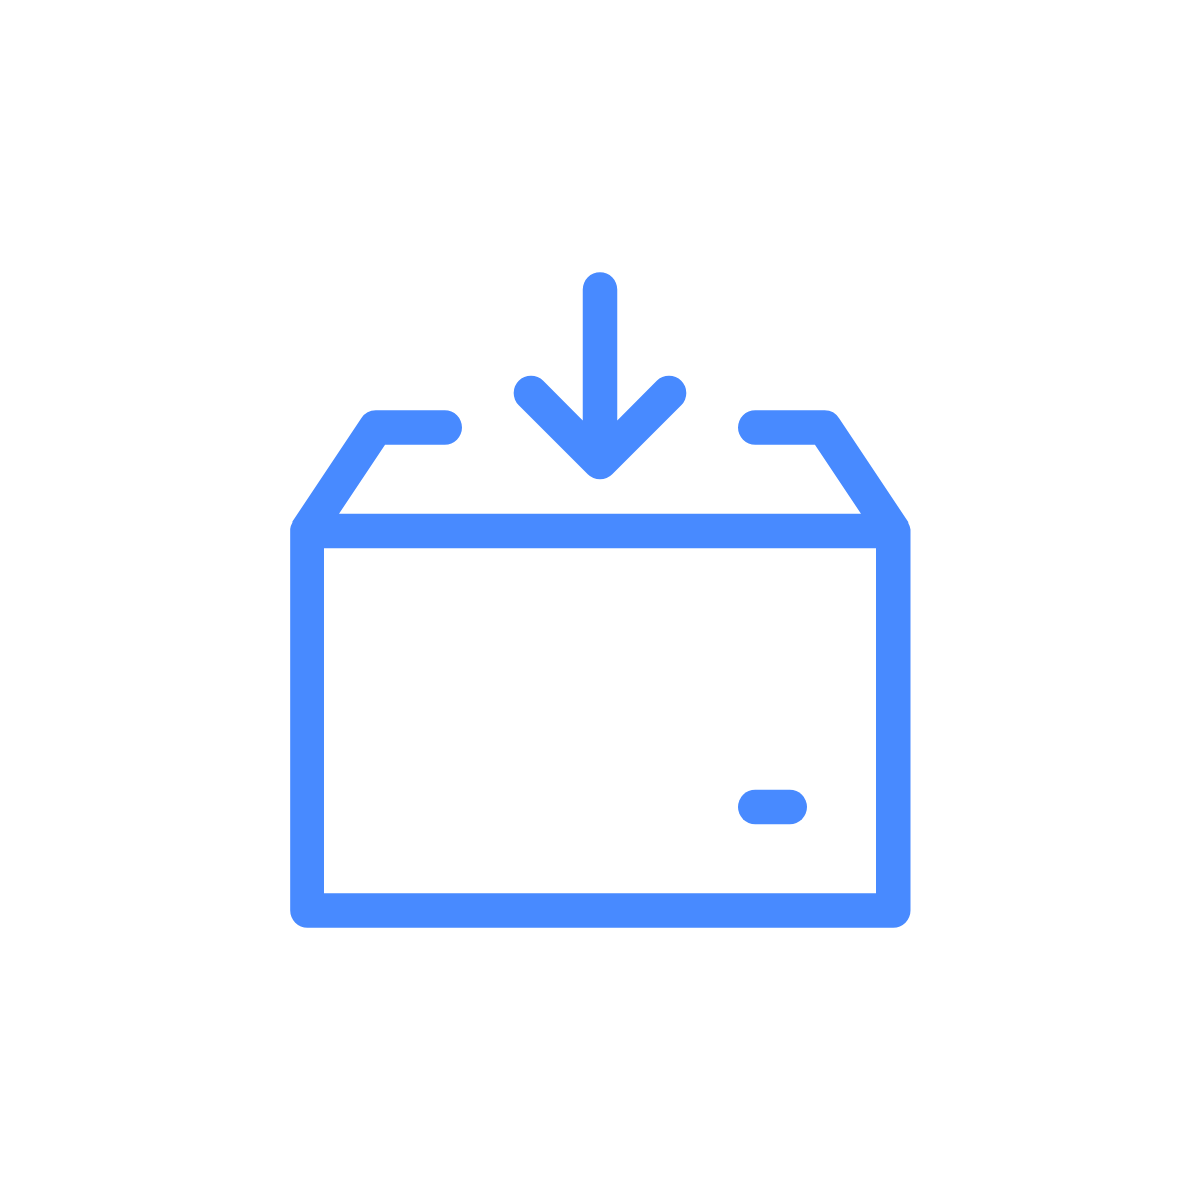
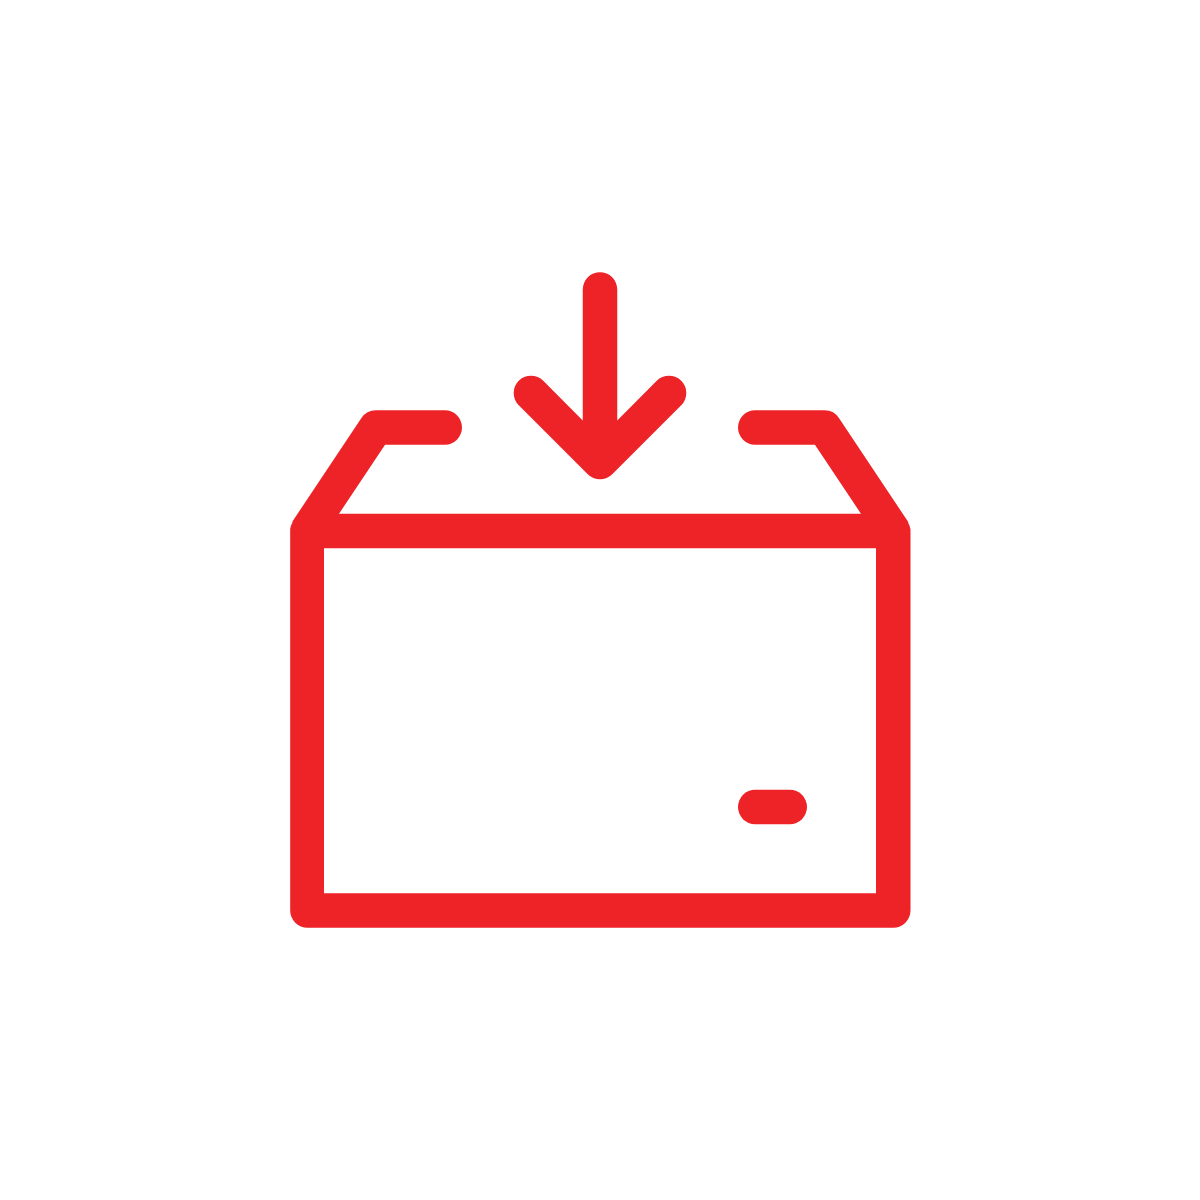
color Changed

Changed region(s): [[0.2158, 0.2158, 0.7708, 0.7708], [0.6167, 0.6475, 0.6783, 0.7092]]

diff --git a/src/pages/login/login.ts b/src/pages/login/login.ts
@@ -68,7 +68,7 @@ export class LoginPage {
         // alert(JSON.stringify(res));
         // alert('PutMaster Executed SQL');
       }).catch(e => {
-        alert('Error in line 35 = ' + JSON.stringify(e));
+        alert('Error in line 71 = ' + JSON.stringify(e));
         console.log(e);
       });
     }).catch(e => console.log(e));
@@ -81,7 +81,7 @@ export class LoginPage {
         // alert(JSON.stringify(res));
         // alert('PutMaster Executed SQL');
       }).catch(e => {
-        alert('Error in line 50 = ' + JSON.stringify(e));
+        alert('Error in line 84 = ' + JSON.stringify(e));
         console.log(e);
       });
     }).catch(e => console.log(e));
@@ -96,11 +96,11 @@ export class LoginPage {
     }).then((db: SQLiteObject) => {
       db.executeSql('INSERT INTO putMaster VALUES(?,?)', [i, "putNo00" + i])
         .then(res => {
-          alert('Sucess Insert = ' + JSON.stringify(res));
+          //alert('Sucess Insert = ' + JSON.stringify(res));
           console.log(res);
 
         }).catch(e => {
-          alert('Error in line 51 = ' + JSON.stringify(e));
+          alert('Error in line 103 = ' + JSON.stringify(e));
           //console.log(e);
         });
     }).
@@ -109,7 +109,31 @@ export class LoginPage {
         //alert(JSON.stringify(error));
         console.log(error);
       });
+      this.insertPutDetails(i,"00"+i,"itemName"+i,"BC1R"+i ,i);
     }
+  }
+
+
+  insertPutDetails(putID, itemCode, itemName, suggestedLocation, itemQty){
+    this.sqlite.create({
+      name: 'ionicdb.db',
+      location: 'default'
+    }).then((db: SQLiteObject) => {
+      db.executeSql('INSERT INTO putDetails VALUES(?,?,?,?,?)', [putID, itemCode, itemName, suggestedLocation, itemQty])
+        .then(res => {
+          //alert('Sucess Insert = ' + JSON.stringify(res));
+          console.log(res);
+
+        }).catch(e => {
+          alert('Error in line 51 = ' + JSON.stringify(e));
+          //console.log(e);
+        });
+    }).
+      catch(error => {
+        alert('Error in line 133 = ' + JSON.stringify(error));
+        //alert(JSON.stringify(error));
+        console.log(error);
+      });
   }
 
   toastMsgFn(msg: string) {

diff --git a/src/pages/home/home.ts b/src/pages/home/home.ts
@@ -21,53 +21,28 @@ export class HomePage {
 
   ionViewDidLoad() {
   }
-
   
+ 
 
-
-  // getData(){
-  //   this.sqlite.create({
-  //     name: 'ionicdb.db',
-  //     location: 'default'
-  //   }).then((db: SQLiteObject) => {
-  //     db.executeSql('SELECT COUNT(putID) AS putCount FROM putMaster', []).then(res => {
-  //       alert("Select = " + JSON.stringify(res));
-  //       this.dataCount = res.rows.item(0).count;
-  //       //alert(res.rows.item(0).count);
-  //     }).catch(e => console.log(e));
-  //   }).catch(e => console.log(e));
-  // }
-
-  // insertRecords(no){
-  //   //for (let i = 1; i <= 5; i++) {
-  //     this.sqlite.create({
-  //       name: 'ionicdb.db',
-  //       location: 'default'
-  //     }).then((db: SQLiteObject) => {
-  //       db.executeSql('INSERT INTO putMaster VALUES(?,?)', [no, "putNo00" + no])
-  //         .then(res => {
-  //           alert('Sucess Insert = ' + JSON.stringify(res));
-  //           console.log(res);
-
-  //         }).catch(e => {
-  //           alert('Error in line 51 = ' + JSON.stringify(e));
-  //           //console.log(e);
-  //         });
-  //     }).
-  //       catch(error => {
-  //         alert('Error in line 56 = ' + JSON.stringify(error));
-  //         //alert(JSON.stringify(error));
-  //         console.log(error);
-  //       });
-  //   //}
-  // }
-
-
-goToPustList(){
-  this.navCtrl.push('ListputPage');
-}
+  goToPustList(){
+    this.navCtrl.push('ListputPage');
+  }
 
   logOut(){
+
+    this.sqlite.create({
+      name: 'ionicdb.db',
+      location: 'default'
+    }).then((db: SQLiteObject) => {
+      db.executeSql('DELETE FROM putMaster', [])
+        .then(res => {
+          alert(JSON.stringify(res));
+          console.log(res);
+        })
+        .catch(e => console.log(e));
+    }).catch(e => console.log(e));
+  
+
     this.storage.clear().then(() => {
       console.log('all keys are cleared');
     });

diff --git a/src/pages/listput/listput.ts b/src/pages/listput/listput.ts
@@ -25,10 +25,17 @@ export class ListputPage {
       name: 'ionicdb.db',
       location: 'default'
     }).then((db: SQLiteObject) => {
-      db.executeSql('SELECT * FROM putMaster', []).then(res => {
+      db.executeSql('SELECT * FROM putMaster INNER JOIN putDetails ON putMaster.putID = putDetails.putID', []).then(res => {
         this.putJson = [];
         for (var i = 0; i < res.rows.length; i++) {
-          this.putJson.push({ putID: res.rows.item(i).putID, putNo: res.rows.item(i).putNo })
+          this.putJson.push({ 
+            putID: res.rows.item(i).putID,
+            putNo: res.rows.item(i).putNo,
+            itemCode: res.rows.item(i).itemCode,
+            itemName: res.rows.item(i).itemName,
+            suggestedLocation: res.rows.item(i).suggestedLocation,
+            itemQty: res.rows.item(i).itemQty,
+           })
         }
         //alert("Select = " + JSON.stringify(res));
         //alert(res.rows.item(0).putNo);

diff --git a/src/pages/listput/listput.html b/src/pages/listput/listput.html
@@ -4,10 +4,19 @@
     </ion-navbar>
 </ion-header>
 
-<ion-content padding>
-    <ion-card *ngFor="let p of putJson">
+<ion-content>
+    <!-- <ion-card *ngFor="let p of putJson">
         <ion-card-content>
-            {{p.putID}} - {{p.putNo}}
+            {{p.putID}} - {{p.putNo}} - {{p.itemCode}} - {{p.itemName}} - {{p.suggestedLocation}} - {{p.itemQty}}
         </ion-card-content>
+    </ion-card> -->
+
+    <ion-card *ngFor="let p of putJson">
+        <ion-item>
+            <h2><span><b>PutNo : </b></span> {{p.putNo}}</h2>
+            <h2><span><b>Item Code : </b></span>{{p.itemCode}} </h2>
+            <h2><span><b>Suggested Location : </b></span>{{p.suggestedLocation}} </h2>
+        </ion-item>
     </ion-card>
+
 </ion-content>

diff --git a/src/theme/variables.scss b/src/theme/variables.scss
@@ -34,7 +34,7 @@ $app-direction: ltr;
 // The "primary" color is the only required color in the map.
 
 $colors: (
-  primary:    #488aff,
+  primary:    #ED2327,
   secondary:  #32db64,
   danger:     #f53d3d,
   light:      #f4f4f4,
